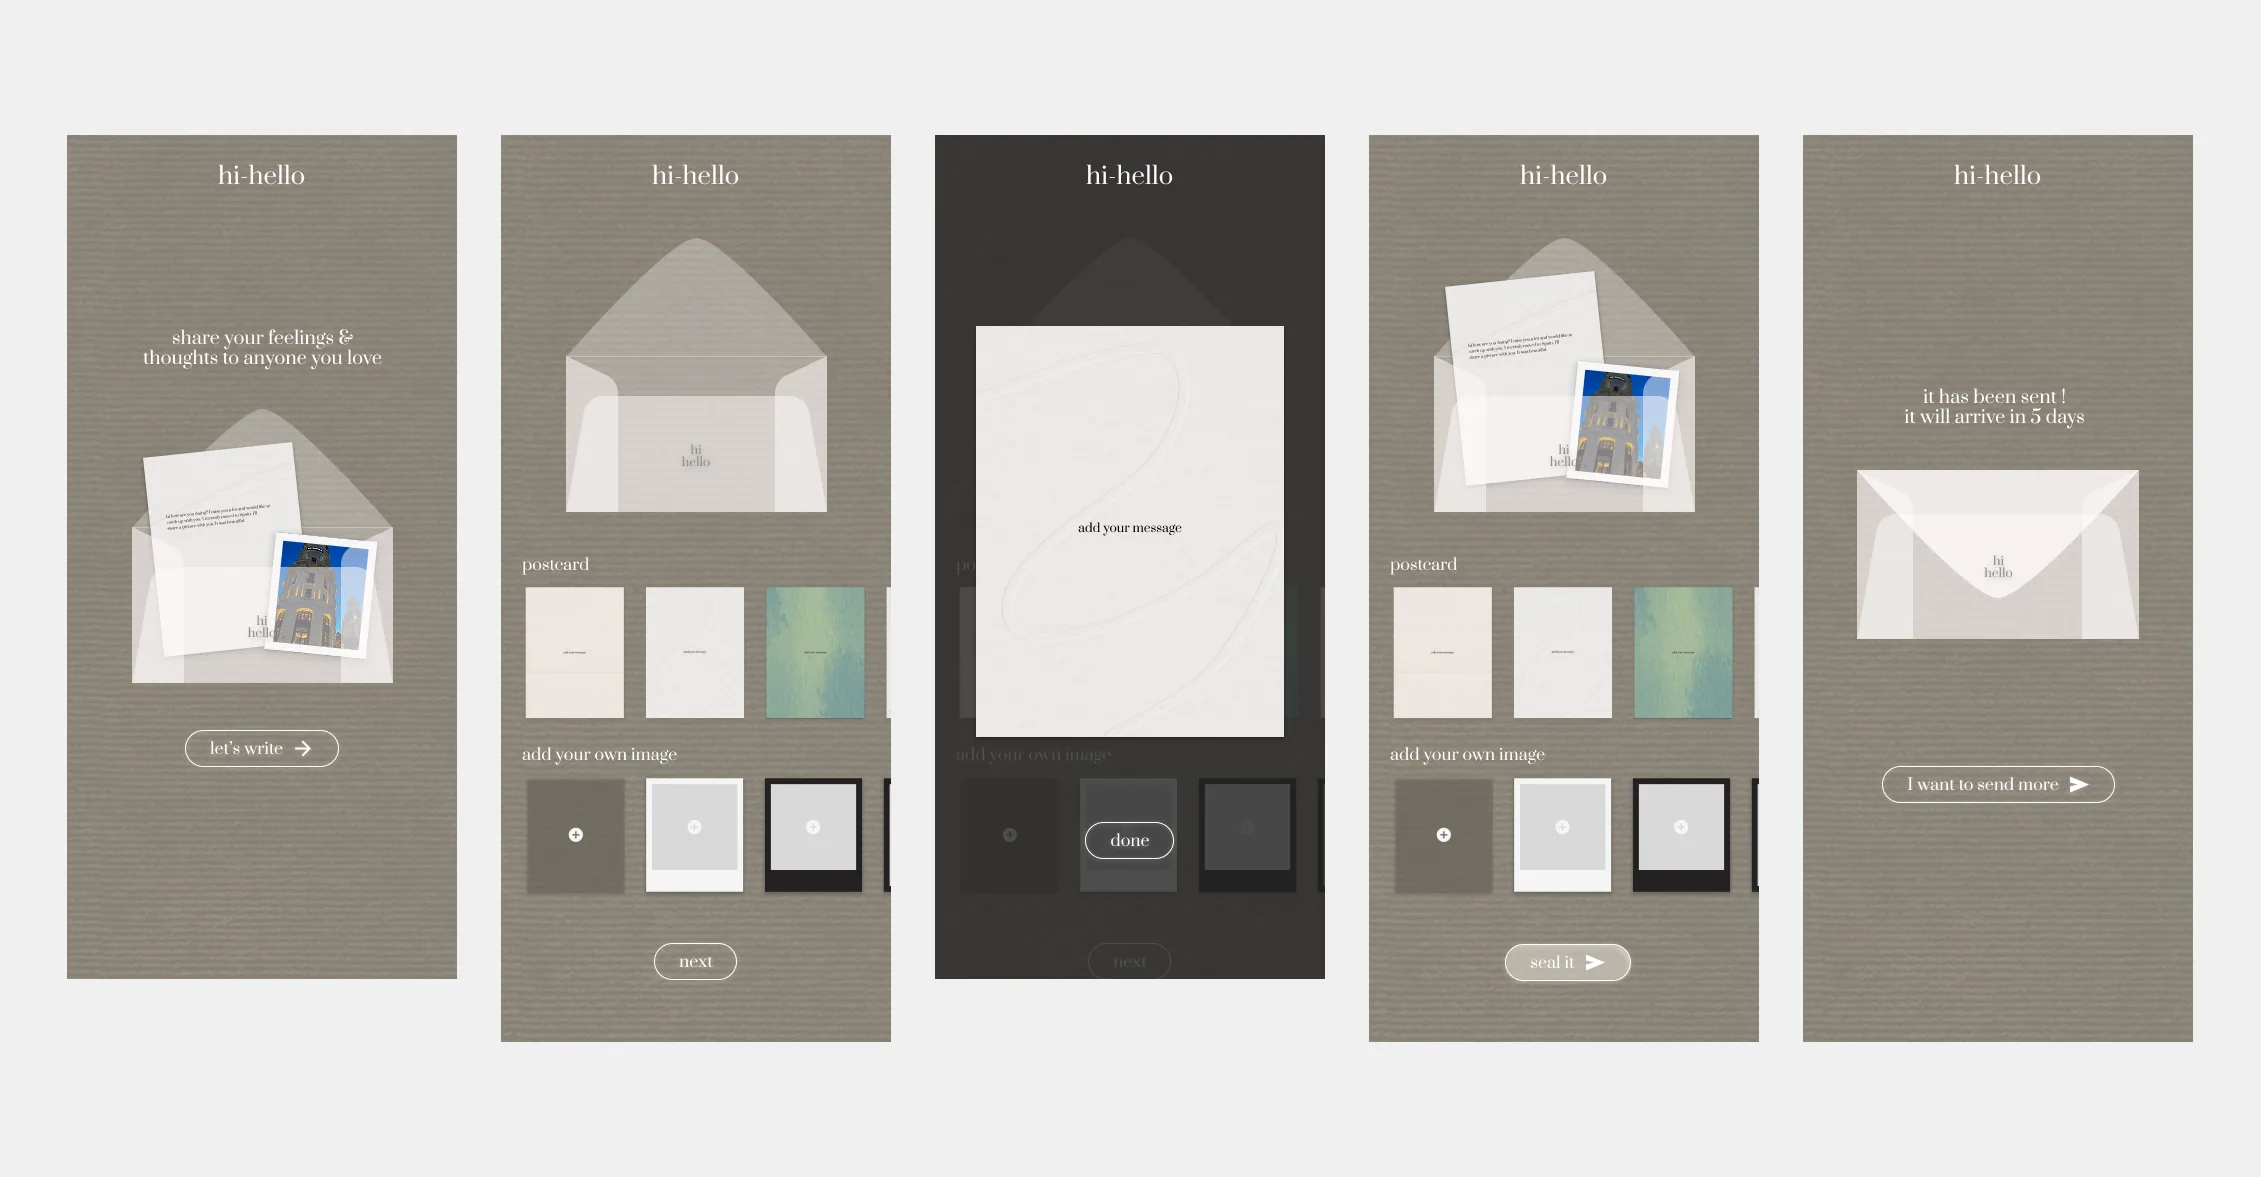
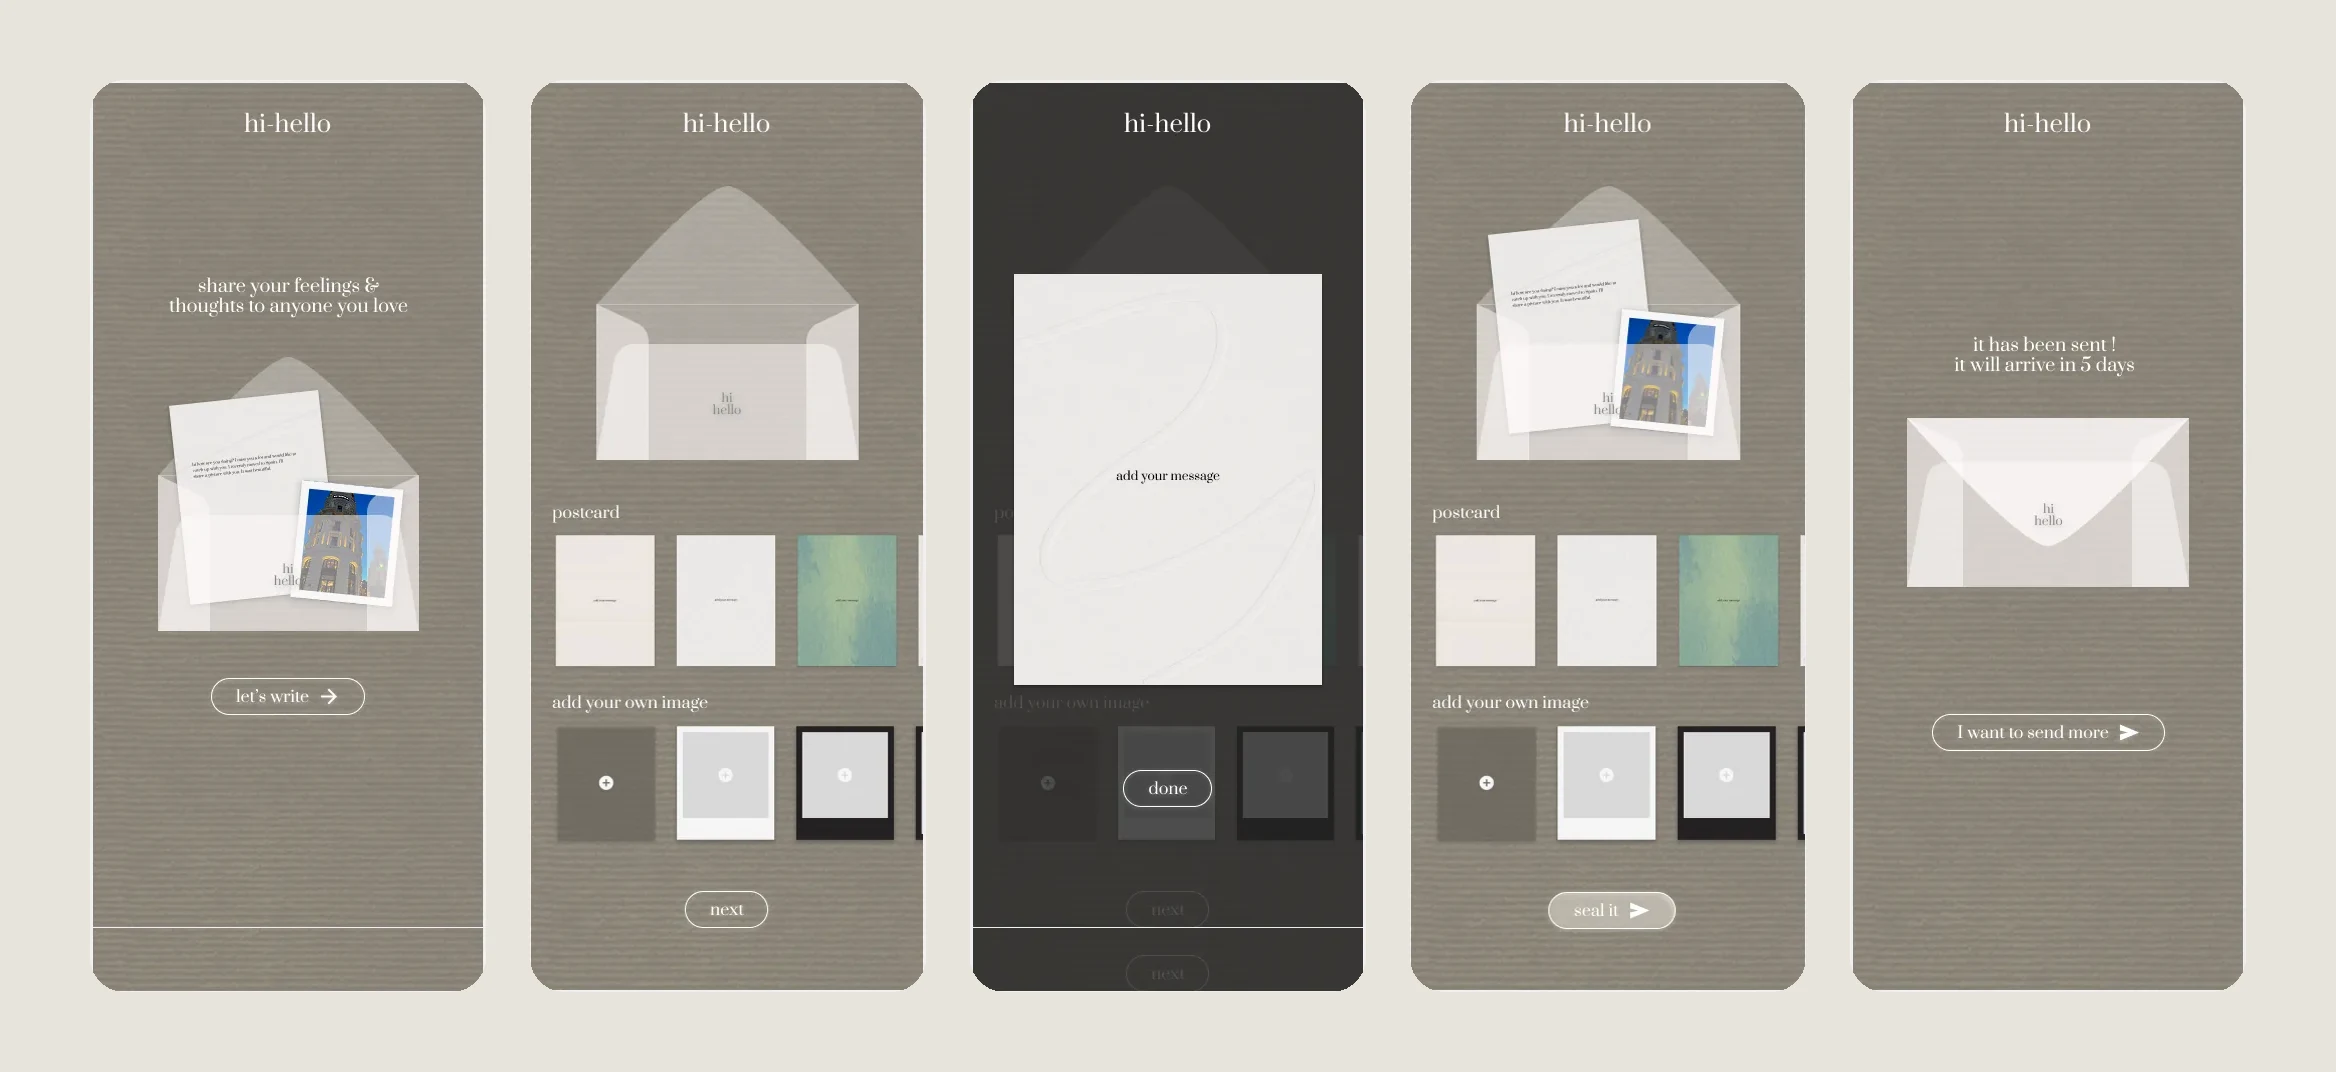
Fitoday: pivot told once, new section order; USRI testing board and style guide redrawn, wording fixes; HiHello screens equal height; Wordtropolis grade

diff --git a/fitoday.html b/fitoday.html
@@ -70,8 +70,8 @@
     </figure>
 
     <ol class="phases" aria-label="Project progress">
-      <li class="done"><a href="#s-problem"><span class="st">Done</span><span class="ph">Survey + PRD</span></a></li>
-      <li class="done"><a href="#s-history"><span class="st">Done</span><span class="ph">V1–V2, tested with 5 people</span></a></li>
+      <li class="done"><a href="#s-pivot"><span class="st">Done</span><span class="ph">Survey + PRD</span></a></li>
+      <li class="done"><a href="#s-pivot"><span class="st">Done</span><span class="ph">V1–V2, tested with 5 people</span></a></li>
       <li class="done"><a href="#s-pivot"><span class="st">Done</span><span class="ph">Pivot to a diary</span></a></li>
       <li class="done"><a href="#s-validate"><span class="st">Done</span><span class="ph">V3, AI-simulated testing</span></a></li>
       <li class="now"><a href="#s-build"><span class="st">Now</span><span class="ph">Built, in App Store review</span></a></li>
@@ -92,7 +92,7 @@
           <li><span class="k">Level up</span><span class="v">Points for logging and streaks. Rating and giving feedback earn extra.</span></li>
         </ul>
 
-        <figure class="figure"><img loading="lazy" decoding="async" src="images/fitoday/fitoday_main_flow_v3.webp" alt="V3 main flow" width="3200" height="1600"><figcaption>The main flow: log, look back, share.</figcaption></figure>
+        <figure class="figure"><img loading="lazy" decoding="async" src="images/fitoday/fitoday_main_flow_v3.webp" alt="V3 main flow" width="3200" height="1600"><figcaption>The main flow: log, look back, share. Sample photos.</figcaption></figure>
 
         <div class="slots">
           <figure class="shot"><video src="images/fitoday/fitoday_log_today.mp4" poster="images/fitoday/fitoday_log_today_poster.webp" autoplay muted loop playsinline preload="metadata" width="900" height="1950" aria-label="Screen recording: open the camera, take a photo, tap two items, save; today fills in on the calendar"></video><figcaption><span class="slot-name">Log today</span><span class="slot-note">Photo + 3 taps or fewer</span></figcaption></figure>
@@ -101,19 +101,38 @@
           <figure class="shot"><video src="images/fitoday/fitoday_visibility.mp4" poster="images/fitoday/fitoday_visibility_poster.webp" autoplay muted loop playsinline preload="metadata" width="900" height="1950" aria-label="Screen recording: changing who can see an entry from Only me to Followers"></video><figcaption><span class="slot-name">Who can see this</span><span class="slot-note">Private by default</span></figcaption></figure>
         </div>
 
-        <p class="h3">Design system</p>
+      </div>
+    </section>
+
+    <section class="cs" aria-labelledby="s-ds">
+      <header class="cs-head">
+        <p class="label" id="s-ds">Design system</p>
+        <p class="cs-summary">One set of components for every screen and state.</p>
+      </header>
+      <div class="cs-body">
         <p>About 30 reusable Figma components (Auto Layout, Variants) cover every screen, including empty, error and offline states.</p>
         <figure class="figure"><img loading="lazy" decoding="async" src="images/fitoday/fitoday_components.webp" alt="Fitoday component library: type scale, icons, buttons, chips, toggle and segmented control, rating, calendar day, navigation, toast, offline and error states, visibility selector, and the colour palette" width="3200" height="1332"><figcaption>The component library, captured from the built app.</figcaption></figure>
       </div>
     </section>
 
-    <!-- 1. PROBLEM -->
-    <section class="cs" aria-labelledby="s-problem">
+    <!-- PIVOT (short) -->
+    <section class="cs" aria-labelledby="s-pivot">
       <header class="cs-head">
-        <p class="label" id="s-problem">Problem</p>
-        <p class="cs-summary">Fashion apps are built for sharing outfits, not for improving them.</p>
+        <p class="label" id="s-pivot">The pivot</p>
+        <p class="cs-summary">V1–V2 tested well but needed a crowd. V3 keeps every feature and makes daily logging the core, so the app works with zero followers.</p>
       </header>
       <div class="cs-body">
+        <ul class="rows">
+          <li><span class="k">New core</span><span class="v">Daily logging: log, look back, and level up with streaks.</span></li>
+          <li><span class="k">Kept, already tested</span><span class="v">Ratings, feedback notes and levels. Share an entry and the community helps you grow.</span></li>
+          <li><span class="k">New primary user</span><span class="v">Sam, a style tracker. Chloe moves to the community layer.</span></li>
+        </ul>
+        <figure class="figure"><img loading="lazy" decoding="async" src="images/fitoday/fitoday_tracking.webp" alt="Comparison of how people track outfits: camera roll is easy to capture but has no calendar; closet apps have calendars and stats but require cataloging first; spreadsheets are manual with no photos; Fitoday is one photo a day plus a searchable calendar" width="2400" height="1260"><figcaption>Nothing is both effortless to log and easy to look back on.</figcaption></figure>
+        <figure class="figure"><img loading="lazy" decoding="async" src="images/fitoday/fitoday_personas_v3.webp" alt="Two proto-personas: Sam Ortiz, a style tracker who wants to avoid repeating outfits and uses the diary privately; Chloe Lin, a fashion creator who shares chosen entries for feedback" width="2400" height="1760"><figcaption>V3 proto-personas, from secondary research.</figcaption></figure>
+        <details class="archive">
+          <summary>Background: the problem, V1–V2, user testing and the market check</summary>
+          <div class="archive-body">
+          <p class="h3">Problem: Fashion apps are built for sharing outfits, not for improving them.</p>
         <p class="lede">It started with a personal question. Scrolling Instagram, I kept wondering why some outfits looked put together and mine didn't. What I wanted wasn't more inspiration. It was honest feedback I could learn from.</p>
         <p class="lede">To check whether that was just me, I ran a 12-person survey and reviewed the platforms people already use for fashion. The pattern was clear: there are plenty of places to post an outfit and almost nowhere built for constructive feedback on it. People also told me why they don't ask for it: they're afraid of being judged.</p>
 
@@ -123,22 +142,9 @@
           <li><q>Posting on instagram everyday feels like a performance.</q><span class="src">Survey participant</span></li>
         </ul>
         <div class="facts">
-          <div><div class="n">3.8M</div><div class="t">members in r/OUTFITS, where feedback requests are the top post type</div></div>
           <div><div class="n">6M+</div><div class="t">members in r/malefashionadvice, with weekly “What I'm Wearing” threads</div></div>
         </div>
         <p>Instagram, Pinterest and TikTok are built for showing outfits, not improving them.</p>
-      </div>
-    </section>
-
-    <section class="cs" aria-labelledby="s-history">
-      <header class="cs-head">
-        <p class="label" id="s-history">How I got here</p>
-        <p class="cs-summary">V1–V2 was a rating app that 5 testers understood instantly. A market check showed it would fail new users, so I pivoted before writing code.</p>
-      </header>
-      <div class="cs-body">
-        <details class="archive">
-          <summary>V1–V2 design, user testing and the market check</summary>
-          <div class="archive-body">
           <p class="h3">V1–V2: A feedback app: Post one outfit a day. Others rate it in one tap.</p>
         <p class="lede">I designed for two people: Chloe, who posts and wants better feedback than “nice pic”, and Marcus, who wants to dress better but is afraid to ask.</p>
         <div class="grid-2">
@@ -176,28 +182,6 @@
         </div>
           </div>
         </details>
-      </div>
-    </section>
-
-    <!-- 5. PIVOT -->
-    <section class="cs" aria-labelledby="s-pivot">
-      <header class="cs-head">
-        <p class="label" id="s-pivot">The pivot</p>
-        <p class="cs-summary">Same features, new core: give every user a reason to come back, even with no followers.</p>
-      </header>
-      <div class="cs-body">
-        <p class="lede">I asked what would keep a user who has no connections yet. My own habit answered: I took outfit photos every day, then lost them in my camera roll.</p>
-        <div class="facts">
-          <div><div class="n">~25%</div><div class="t">of clothes in UK wardrobes unworn for a year (WRAP, 6,000+ adults)</div></div>
-          <div><div class="n">52K</div><div class="t">people in r/TodayIWore, posting what they wore each day</div></div>
-        </div>
-        <figure class="figure"><img loading="lazy" decoding="async" src="images/fitoday/fitoday_tracking.webp" alt="Comparison of how people track outfits: camera roll is easy to capture but has no calendar; closet apps have calendars and stats but require cataloging first; spreadsheets are manual with no photos; Fitoday is one photo a day plus a searchable calendar" width="2400" height="1260"><figcaption>Nothing is both effortless to log and easy to look back on.</figcaption></figure>
-        <ul class="rows">
-          <li><span class="k">New core</span><span class="v">Daily logging: log, look back, and level up with streaks.</span></li>
-          <li><span class="k">Kept, already tested</span><span class="v">Ratings, feedback notes and levels. Share an entry and the community helps you grow.</span></li>
-          <li><span class="k">New primary user</span><span class="v">Sam, a style tracker. Chloe moves to the community layer.</span></li>
-        </ul>
-        <figure class="figure"><img loading="lazy" decoding="async" src="images/fitoday/fitoday_personas_v3.webp" alt="Two proto-personas: Sam Ortiz, a style tracker who wants to avoid repeating outfits and uses the diary privately; Chloe Lin, a fashion creator who shares chosen entries for feedback" width="2400" height="1760"><figcaption>V3 proto-personas, from secondary research.</figcaption></figure>
       </div>
     </section>
 

diff --git a/usri.html b/usri.html
@@ -58,13 +58,13 @@
       </div>
       <div class="brief-item">
         <p class="label">Outcome</p>
-        <p class="brief-text">Tested with 18 students: 13 said it would support their daily well-being. Design complete, in development.</p>
+        <p class="brief-text">Tested with 18 students: 13 said it would support their daily well-being. Design complete; backend handed off Jun 2026.</p>
       </div>
     </section>
 
     <figure class="case-cover">
       <img src="images/usri/usri_hero_no_text.webp" alt="Blurred screens of the student well-being app; the final UI is confidential" width="1860" height="1309">
-      <figcaption class="figcap">The final UI is confidential while development continues, so it's blurred here and the flows are shown as diagrams.</figcaption>
+      <figcaption class="figcap">The final UI is confidential, so it's blurred here and the flows are shown as diagrams.</figcaption>
     </figure>
 
     <!-- 1. PROBLEM -->
@@ -159,7 +159,7 @@
           <li><span class="k">Jargon got in the way</span><span class="v">“I wasn't sure what ‘competency’ meant at first.”</span></li>
           <li><span class="k">Too much at once</span><span class="v">“Too many options on the first screen.”<span class="muted">This was the first sign of the bigger problem below.</span></span></li>
         </ul>
-        <figure class="figure"><img loading="lazy" decoding="async" src="images/usri/usri_testing_analysis.webp" alt="Testing analysis board with sticky notes under confusion points, what worked and what to change" width="1920" height="1080"><figcaption>Testing analysis: confusion points, what worked, what to change.</figcaption></figure>
+        <figure class="figure"><img loading="lazy" decoding="async" src="images/usri/usri_testing_analysis.webp" alt="Testing analysis board with sticky notes under confusion points, what worked and what to change" width="2400" height="1440"><figcaption>Testing analysis: confusion points, what worked, what to change.</figcaption></figure>
       </div>
     </section>
 
@@ -187,7 +187,7 @@
       </header>
       <div class="cs-body">
         <p>A style guide of colour palette and icon set, so every screen followed the same rules for colour, type and icons. We also moved from the navy low-fidelity look to warmer, calmer colours that suit the subject.</p>
-        <figure class="figure on-white" style="max-width:520px;"><img loading="lazy" decoding="async" src="images/usri/usri_styleguide.webp" alt="Style guide: logo, warm brown palette and typography scale" width="1096" height="1356"></figure>
+        <figure class="figure on-white" style="max-width:520px;"><img loading="lazy" decoding="async" src="images/usri/usri_styleguide.webp" alt="Style guide: logo, warm brown palette and typography scale" width="2400" height="1200"></figure>
       </div>
     </section>
 
@@ -200,7 +200,7 @@
       <div class="cs-body">
         <ul class="rows">
           <li><span class="k">Backend</span><span class="v">Coded most of the backend in Python and MongoDB on a 3-person team, building every API endpoint the screens depended on.</span></li>
-          <li><span class="k">Design intent in code</span><span class="v">Weekly reviews with senior developers and a senior UX designer kept the build matched to the approved flows.</span></li>
+          <li><span class="k">Design intent in code</span><span class="v">Weekly reviews with senior developers and senior UX designers kept the build matched to the approved flows.</span></li>
           <li><span class="k">Handoff</span><span class="v">Handed the backend to a senior developer to add the AI reflection chatbot students asked for in testing.</span></li>
         </ul>
       </div>

diff --git a/wordtropolis.html b/wordtropolis.html
@@ -172,7 +172,7 @@
       <div class="cs-body">
         <ul class="rows">
           <li><span class="k">Shipped</span><span class="v">A fully playable game with four mission types, rising difficulty and multi-sensory feedback.</span></li>
-          <li><span class="k">Evaluated</span><span class="v">Presented to the whole class and graded by the TAs and professor, earning a strong grade.</span></li>
+          <li><span class="k">Evaluated</span><span class="v">Presented to the whole class and graded by the TAs and professor, earning 98%, submitted early.</span></li>
           <li><span class="k">Not yet</span><span class="v">Tested with children, the actual users.</span></li>
         </ul>
       </div>

diff --git a/hihello.html b/hihello.html
@@ -66,7 +66,7 @@
     </section>
 
     <figure class="case-cover">
-      <img src="images/hihello/hihello_mockup.webp" alt="HiHello mobile screens: landing, choosing a postcard, writing, adding photos, and the sealed envelope" width="2261" height="1177">
+      <img src="images/hihello/hihello_mockup.webp" alt="HiHello mobile screens: landing, choosing a postcard, writing, adding photos, and the sealed envelope" width="2336" height="1072">
     </figure>
 
     <!-- 1. PROBLEM -->
